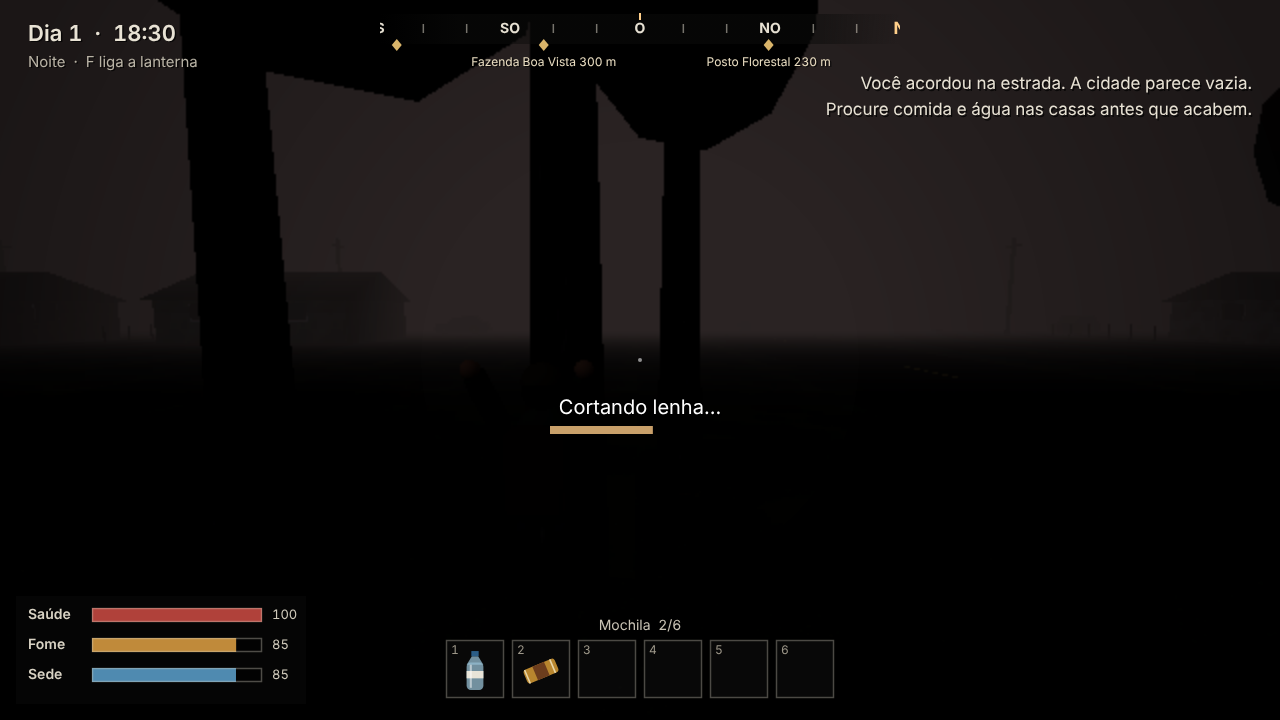
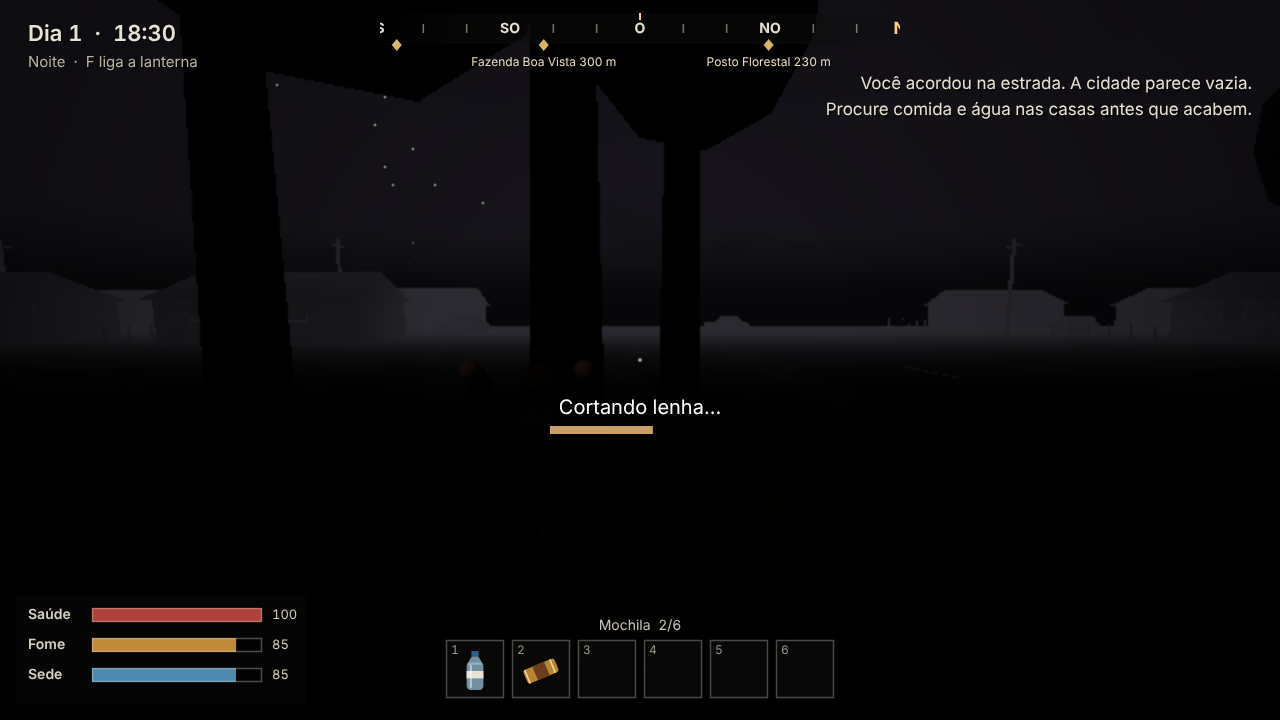
feat: gráfico mais realista
Céu com gradiente, sol, lua, estrelas e nuvens que se movem e mudam com
o clima; luz e reflexos vindos do céu (mapa de ambiente); sombras suaves
e oclusão de ambiente no computador; grama 3D que balança com o vento;
texturas com relevo; água do lago com ondulação e reflexo. No celular,
sem grama, sem oclusão e sem relevo, para continuar leve.

Story: SPIKE sobrevivencia-spike-2026-11-20

Claude-Session: https://claude.ai/code/session_013o8aek17KGRmKMrjDa2EVT

Changed region(s): [[0.4688, 0.3361, 0.9375, 0.4583], [0.2188, 0.3361, 0.4375, 0.4583], [0.0625, 0.3667, 0.1562, 0.4278]]

diff --git a/prototypes/sobrevivencia-spike-2026-11-20/index.html b/prototypes/sobrevivencia-spike-2026-11-20/index.html
@@ -50,6 +50,7 @@ const CONTROLS = TOUCH ? [
 const clock = window.GAME_CLOCK || { now: () => performance.now() / 1000 };
 const CHEAP = params.get('render') === 'cheap';
 const LIGHT = TOUCH && !CHEAP; // lighter render on a phone: no shadows, lower resolution
+const HQ = !LIGHT && !CHEAP && params.get('hq') !== '0'; // computer: soft shadows, ambient occlusion, grass
 let seed;
 function rng() { // mulberry32; every gameplay random call reads this, never Math.random
   seed = (seed + 0x6D2B79F5) | 0;
@@ -76,7 +77,7 @@ const wcanvas = document.getElementById('world');
 const renderer = new THREE.WebGLRenderer({ canvas: wcanvas, antialias: !CHEAP && !LIGHT, powerPreference: 'high-performance' });
 renderer.setPixelRatio(CHEAP ? 0.5 : LIGHT ? Math.min(devicePixelRatio || 1, 1) * tune.mobile_resolution : Math.min(devicePixelRatio || 1, 2));
 renderer.shadowMap.enabled = !CHEAP && !LIGHT;
-renderer.shadowMap.type = THREE.PCFShadowMap;
+renderer.shadowMap.type = HQ ? THREE.VSMShadowMap : THREE.PCFShadowMap;
 renderer.toneMapping = THREE.ACESFilmicToneMapping;
 renderer.outputColorSpace = THREE.SRGBColorSpace;
 function fit() {
@@ -93,6 +94,7 @@ function fit() {
   canvas.style.width = cw + 'px'; canvas.style.height = ch + 'px';
   canvas.style.left = left; canvas.style.top = top;
   renderer.setSize(cw, ch, true);
+  if (fit.composer) fit.composer.setSize(cw, ch);
   wcanvas.style.left = left; wcanvas.style.top = top;
   ctx.setTransform(r, 0, 0, r, 0, 0);
 }
@@ -366,6 +368,7 @@ sun.castShadow = !CHEAP && !LIGHT;
 sun.shadow.mapSize.set(2048, 2048);
 Object.assign(sun.shadow.camera, { left: -45, right: 45, top: 45, bottom: -45, near: 1, far: 160 });
 sun.shadow.bias = -0.0004; sun.shadow.normalBias = 0.04;
+if (HQ) { sun.shadow.radius = 5; sun.shadow.blurSamples = 12; sun.shadow.bias = -0.0008; }
 const flash = new THREE.SpotLight(0xfff1d6, 0, 40, 0.55, 0.55, 1.2);
 flash.position.set(0.15, -0.15, 0); camera.add(flash); flash.target.position.set(0, -0.22, -1); camera.add(flash.target);
 
@@ -419,7 +422,7 @@ function siding(r, gg, b, k) {
     const gr = g.createLinearGradient(0, s * 0.6, 0, s); gr.addColorStop(0, 'rgba(40,35,25,0)'); gr.addColorStop(1, 'rgba(40,35,25,0.25)'); g.fillStyle = gr; g.fillRect(0, 0, s, s);
   });
 }
-const M = (map, extra = {}) => new THREE.MeshStandardMaterial(Object.assign({ map, roughness: 0.92, metalness: 0 }, extra));
+const M = (map, extra = {}) => new THREE.MeshStandardMaterial(Object.assign({ map, roughness: 0.92, metalness: 0 }, LIGHT ? {} : { bumpMap: map, bumpScale: 2.2 }, extra)); // the texture doubles as a bump map: grooves, cracks and grain catch the light
 const MAT = {
   grass: M(T.grass), asphalt: M(T.asphalt), concrete: M(T.concrete), floor: M(T.floor), roof: M(T.roof),
   plaster: M(T.plaster), wood: M(T.wood), planks: M(T.planks), bark: M(T.bark),
@@ -552,6 +555,7 @@ function windowAt(x, y, z, alongX) {
 
 // A house beside the road. side +1: the door faces +x; -1: it faces -x.
 function house(cx, cz, w, d, side, mi, opts = {}) {
+  footprints.push([cx - w / 2 - 0.5, cx + w / 2 + 0.5, cz - d / 2 - 0.5, cz + d / 2 + 0.5]);
   const Hh = 2.8, t = 0.2, mat = SIDING[mi % SIDING.length];
   const doorX = cx + side * w / 2, backX = cx - side * w / 2, dw = 1.3, seg = (d - dw) / 2;
   const locked = !opts.open && wrng() < tune.locked_chance;
@@ -777,13 +781,16 @@ function buildWorld() {
     mesh(boxGeo(1.6, 0.12, 0.12, 1), MAT.pole, 6.2, 7.4, z);
     boxes.push({ x0: 6.05, x1: 6.35, z0: z - 0.15, z1: z + 0.15, y0: 0, y1: 8 });
   }
+  roadRects.push([-7, 7, -172, 140], [-13, 13, -159, -141], [222, 246, -88, -68]); // town street and sidewalks, market, station forecourt
   buildRoads(); buildVillage(); buildFarm(); buildCabin(); buildLake(); buildSouth();
   buildForest();
 }
 
 // ---- The wider map ----------------------------------------------------------------------------
 // Roads are flat boxes; asphalt roads get a dashed centre line, dirt tracks do not.
+const roadRects = [], footprints = [];
 function road(x0, x1, z0, z1, mat = MAT.asphalt) {
+  roadRects.push([x0 - 1.5, x1 + 1.5, z0 - 1.5, z1 + 1.5]);
   const cx = (x0 + x1) / 2, cz = (z0 + z1) / 2, sx = x1 - x0, sz = z1 - z0;
   box(cx, -0.015, cz, sx, 0.04, sz, mat, false, 6);
   if (mat !== MAT.asphalt) return;
@@ -804,11 +811,21 @@ function roadSign(x, z, rot, lines) {
   board.rotation.z = (vr(x * z) - 0.5) * 0.08; solids.push(board);
   boxes.push({ x0: x - 0.15, x1: x + 0.15, z0: z - 0.15, z1: z + 0.15, y0: 0, y1: 3 });
 }
+// ripples: a tiling normal map drawn from layered waves; it drifts in draw()
+const WATER_N = (() => {
+  const S = 256, c = document.createElement('canvas'); c.width = c.height = S; const g = c.getContext('2d'), im = g.createImageData(S, S);
+  const hgt = (x, y) => Math.sin((x * 3 + y) / S * Math.PI * 2 * 3) * 0.5 + Math.sin((x - y * 2) / S * Math.PI * 2 * 5) * 0.3 + Math.sin((x * 2 + y * 5) / S * Math.PI * 2 * 2) * 0.4;
+  for (let y = 0; y < S; y++) for (let x = 0; x < S; x++) {
+    const dx = hgt(x + 1, y) - hgt(x - 1, y), dy = hgt(x, y + 1) - hgt(x, y - 1), i = (y * S + x) * 4;
+    im.data[i] = 128 - dx * 90; im.data[i + 1] = 128 - dy * 90; im.data[i + 2] = 255; im.data[i + 3] = 255;
+  }
+  g.putImageData(im, 0, 0); const t = new THREE.CanvasTexture(c); t.wrapS = t.wrapT = THREE.RepeatWrapping; t.repeat.set(6, 6); return t;
+})();
 const MAT2 = {
   dirt: M(tex(256, (g, S) => { g.fillStyle = '#6b5a44'; g.fillRect(0, 0, S, S); grain(g, S, 7000, 90, 0.35, 2); blotches(g, S, 14, 91, 'rgba(40,32,22,0.4)', 50); })),
   barn: M(siding(118, 52, 40, 95)),
   hay: M(tex(128, (g, S) => { g.fillStyle = '#b39a5c'; g.fillRect(0, 0, S, S); g.strokeStyle = 'rgba(90,70,30,0.6)'; for (let i = 0; i < 60; i++) { g.beginPath(); const y = vr(i * 3) * S; g.moveTo(0, y); g.lineTo(S, y + (vr(i) - 0.5) * 20); g.stroke(); } })),
-  water: new THREE.MeshStandardMaterial({ color: 0x4a6068, roughness: 0.12, metalness: 0.05 }),
+  water: new THREE.MeshStandardMaterial({ color: 0x2c4048, roughness: 0.06, metalness: 0.1, normalMap: WATER_N, normalScale: new THREE.Vector2(0.35, 0.35), envMapIntensity: 1.4 }),
   mud: M(tex(256, (g, S) => { g.fillStyle = '#4c4636'; g.fillRect(0, 0, S, S); grain(g, S, 5000, 93, 0.3, 2); })),
   crop: new THREE.MeshStandardMaterial({ color: 0x8a7a48, roughness: 1, flatShading: true }),
   red: new THREE.MeshStandardMaterial({ color: 0x8a3226, roughness: 0.6, metalness: 0.2 }),
@@ -1637,20 +1654,130 @@ function useSlot(i) {
   removeItems(id, 1); ITEMS[id].use(); state.eaten++;
   say('Usou: ' + ITEMS[id].name); events.push({ use: id });
 }
+// ---- Sky: gradient, sun, moving clouds and stars, matched to the fog at the horizon -------------
+const skyMat = new THREE.ShaderMaterial({
+  side: THREE.BackSide, depthWrite: false, fog: false, toneMapped: true,
+  uniforms: { uTop: { value: new THREE.Color() }, uHorizon: { value: new THREE.Color() }, uFog: { value: new THREE.Color() }, uSunDir: { value: new THREE.Vector3(0, 1, 0) },
+    uSunCol: { value: new THREE.Color() }, uCloudCol: { value: new THREE.Color() }, uMoonDir: { value: new THREE.Vector3(0, 1, 0) }, uTime: { value: 0 }, uCover: { value: 0.5 }, uNight: { value: 0 } },
+  vertexShader: `varying vec3 vDir; void main() { vDir = position; vec4 p = projectionMatrix * modelViewMatrix * vec4(position, 1.0); gl_Position = p.xyww; }`,
+  fragmentShader: `
+    uniform vec3 uTop, uHorizon, uFog, uSunDir, uSunCol, uCloudCol, uMoonDir; uniform float uTime, uCover, uNight; varying vec3 vDir;
+    float hash(vec2 p) { return fract(sin(dot(p, vec2(127.1, 311.7))) * 43758.5453); }
+    float noise(vec2 p) { vec2 i = floor(p), f = fract(p); f = f * f * (3.0 - 2.0 * f);
+      return mix(mix(hash(i), hash(i + vec2(1.0, 0.0)), f.x), mix(hash(i + vec2(0.0, 1.0)), hash(i + vec2(1.0, 1.0)), f.x), f.y); }
+    float fbm(vec2 p) { float v = 0.0, a = 0.5; for (int i = 0; i < 5; i++) { v += a * noise(p); p = p * 2.03 + 1.7; a *= 0.5; } return v; }
+    void main() {
+      vec3 d = normalize(vDir); float h = max(d.y, 0.0);
+      vec3 col = mix(uHorizon, uTop, pow(h, 0.6));
+      float sd = max(dot(d, normalize(uSunDir)), 0.0);
+      col += uSunCol * (pow(sd, 900.0) * 6.0 + pow(sd, 10.0) * 0.22);
+      float md = max(dot(d, normalize(uMoonDir)), 0.0);
+      col += vec3(0.85, 0.88, 1.0) * uNight * (smoothstep(0.99955, 0.9997, md) * 1.6 + pow(md, 40.0) * 0.08);
+      if (uNight > 0.01 && d.y > 0.0) { vec2 sp = floor(d.xz / (d.y + 0.15) * 160.0); col += vec3(step(0.9975, hash(sp)) * uNight * 1.4 * smoothstep(0.05, 0.4, d.y)); }
+      if (d.y > 0.0) {
+        vec2 uv = d.xz / (d.y + 0.08) * 0.45 + vec2(uTime * 0.006, uTime * 0.0025);
+        float n = fbm(uv * 1.4), c = smoothstep(1.0 - uCover, 1.15 - uCover * 0.6, n) * smoothstep(0.0, 0.2, d.y);
+        vec3 cc = uCloudCol * (0.72 + 0.4 * fbm(uv * 3.1 + 4.0)) + uSunCol * pow(sd, 6.0) * 0.35;
+        col = mix(col, cc, c * 0.96);
+      }
+      gl_FragColor = vec4(col, 1.0);
+      #include <tonemapping_fragment>
+      #include <colorspace_fragment>
+      gl_FragColor.rgb = mix(uFog, gl_FragColor.rgb, smoothstep(0.0, 0.16, d.y)); // melt into the fog like the ground does
+    }`,
+});
+const skyDome = new THREE.Mesh(new THREE.SphereGeometry(1, 32, 16), skyMat); skyDome.renderOrder = -1; skyDome.frustumCulled = false; world.add(skyDome);
+// the sky lights and reflects on everything: an environment map remade every half game-hour
+const pmrem = new THREE.PMREMGenerator(renderer), envScene = new THREE.Scene();
+const envDome = new THREE.Mesh(new THREE.SphereGeometry(10, 32, 16), skyMat); envScene.add(envDome);
+let envRT = null, envHour = -99;
+function updateEnv(h) {
+  if (CHEAP || Math.abs(h - envHour) < 0.5) return;
+  envHour = h; const old = envRT; envRT = pmrem.fromScene(envScene, 0.02, 0.1, 100); world.environment = envRT.texture; if (old) old.dispose();
+}
+
+// ---- Grass: blades around the player that sway in the wind (computer only) ----------------------
+const grass = (() => {
+  if (LIGHT || CHEAP) return null;
+  const R = 26, SP = 0.32, N = Math.floor((R * 2 / SP) ** 2 * 0.785);
+  const geo = new THREE.PlaneGeometry(0.07, 0.55, 1, 3); geo.translate(0, 0.275, 0);
+  const pos = geo.attributes.position; for (let i = 0; i < pos.count; i++) { const y = pos.getY(i); pos.setX(i, pos.getX(i) * (1 - y / 0.6)); }
+  const mat = new THREE.MeshStandardMaterial({ color: 0xffffff, roughness: 1, side: THREE.DoubleSide });
+  const uTime = { value: 0 };
+  mat.onBeforeCompile = sh => {
+    sh.uniforms.uTime = uTime;
+    sh.vertexShader = 'uniform float uTime;\n' + sh.vertexShader.replace('#include <begin_vertex>', `#include <begin_vertex>
+      vec4 ip = instanceMatrix[3]; float sway = sin(uTime * 1.8 + ip.x * 0.31 + ip.z * 0.23) + 0.5 * sin(uTime * 3.1 + ip.x * 0.9);
+      transformed.x += sway * 0.09 * position.y * position.y * 4.0; transformed.z += sway * 0.05 * position.y * position.y * 4.0;`);
+  };
+  const im = new THREE.InstancedMesh(geo, mat, N); im.receiveShadow = true; im.frustumCulled = false; world.add(im);
+  return { im, uTime, R, SP, N, cx: 1e9, cz: 1e9 };
+})();
+function placeGrass() {
+  const s = state, g = grass; if (!g) return;
+  if (Math.hypot(s.x - g.cx, s.z - g.cz) < 7) return;
+  g.cx = Math.round(s.x / g.SP) * g.SP; g.cz = Math.round(s.z / g.SP) * g.SP;
+  const near = r => r[1] > g.cx - g.R && r[0] < g.cx + g.R && r[3] > g.cz - g.R && r[2] < g.cz + g.R;
+  const rects = roadRects.filter(near).concat(footprints.filter(near));
+  const pools = lakes.filter(l => Math.hypot(l.x - g.cx, l.z - g.cz) < g.R + l.r + 6);
+  const m4 = new THREE.Matrix4(), q = new THREE.Quaternion(), e = new THREE.Euler(), v = new THREE.Vector3(), sc = new THREE.Vector3(), col = new THREE.Color();
+  let n = 0;
+  for (let ix = -g.R; ix <= g.R && n < g.N; ix += g.SP) for (let iz = -g.R; iz <= g.R && n < g.N; iz += g.SP) {
+    if (ix * ix + iz * iz > g.R * g.R) continue;
+    const wx = g.cx + ix, wz = g.cz + iz, hh = vr(wx * 13.1 + wz * 7.7);
+    const x = wx + (hh - 0.5) * g.SP, z = wz + (vr(wx * 3.3 - wz * 5.9) - 0.5) * g.SP;
+    if (rects.some(r => x > r[0] && x < r[1] && z > r[2] && z < r[3]) || pools.some(l => Math.hypot(x - l.x, z - l.z) < l.r + 4)) continue;
+    e.set((hh - 0.5) * 0.4, hh * 6.28, 0); q.setFromEuler(e); const k = 0.45 + hh * 0.65;
+    m4.compose(v.set(x, 0, z), q, sc.set(1, k, 1)); g.im.setMatrixAt(n, m4);
+    col.setHSL(0.16 + vr(x * 1.7 + z) * 0.08, 0.28 + hh * 0.1, 0.2 + vr(z * 2.3 - x) * 0.1); g.im.setColorAt(n, col);
+    n++;
+  }
+  g.im.count = n; g.im.instanceMatrix.needsUpdate = true; if (g.im.instanceColor) g.im.instanceColor.needsUpdate = true;
+}
+
+// ---- Post: ambient occlusion darkens corners and contact (computer only) ------------------------
+const composer = (() => {
+  if (!HQ || !THREE.EffectComposer || !THREE.GTAOPass) return null;
+  try {
+    const c = new THREE.EffectComposer(renderer);
+    c.addPass(new THREE.RenderPass(world, camera));
+    const ao = new THREE.GTAOPass(world, camera, W, H); ao.updateGtaoMaterial({ radius: 0.6, distanceExponent: 1.5, thickness: 1, scale: 1.2, samples: 12 }); ao.blendIntensity = 0.85;
+    c.addPass(ao); c.addPass(new THREE.OutputPass());
+    fit.composer = c; fit(); return c;
+  } catch (e) { return null; }
+})();
+function renderScene(day) {
+  skyDome.position.copy(camera.position); skyDome.scale.setScalar(camera.far * 0.9);
+  if (grass) { placeGrass(); grass.uTime.value = clock.now(); }
+  WATER_N.offset.set(clock.now() * 0.01, clock.now() * 0.006);
+  if (composer) composer.render(); else renderer.render(world, camera);
+}
+
 function lighting(h) {
   const a = (h - 6) / 12 * Math.PI, el = Math.sin(a);
   const sm = (e0, e1, x) => { const t = Math.max(0, Math.min(1, (x - e0) / (e1 - e0))); return t * t * (3 - 2 * t); };
   const day = sm(-0.18, 0.35, el), dusk = Math.exp(-((el / 0.14) ** 2)) * 0.7;
-  const sky = new THREE.Color(0x090c12).lerp(new THREE.Color(0x9ba3a8), day).lerp(new THREE.Color(0x8c6f60), dusk * day * 1.4 + dusk * 0.3);
+  const sky = new THREE.Color(0x111a28).lerp(new THREE.Color(0x9ba3a8), day).lerp(new THREE.Color(0x8c6f60), dusk * day * 1.4 + dusk * 0.3);
   renderer.setClearColor(sky); world.fog.color.copy(sky);
   world.fog.near = 8; world.fog.far = tune.fog_night_far + (tune.fog_day_far - tune.fog_night_far) * day;
   if (Math.abs(camera.far - (world.fog.far + 15)) > 2) { camera.far = world.fog.far + 15; camera.updateProjectionMatrix(); }
   const dir = new THREE.Vector3(Math.cos(a) * 0.8, Math.abs(el) + 0.05, 0.45).normalize();
   if (el > 0) { sun.intensity = 2.3 * sm(0, 0.3, el); sun.color.setRGB(1, 0.86 + 0.12 * day, 0.75 + 0.2 * day); }
-  else { sun.intensity = 0.22 * sm(0, 0.3, -el); sun.color.setRGB(0.55, 0.65, 0.9); dir.x = -dir.x; }
+  else { sun.intensity = 0.45 * sm(0, 0.3, -el); sun.color.setRGB(0.55, 0.65, 0.95); dir.x = -dir.x; } // moonlight
   const at = camera.position;
   sun.position.set(at.x + dir.x * 70, dir.y * 70, at.z + dir.z * 70); sun.target.position.set(at.x, 0, at.z);
-  hemi.intensity = 0.16 + 0.8 * day; hemi.color.setRGB(0.6 + 0.17 * day, 0.65 + 0.14 * day, 0.8);
+  // weather: cloud cover drifts over the days and dims the sun
+  const days = (state ? state.hour : h) / 24, cover = Math.max(0.15, Math.min(0.9, 0.5 + 0.28 * Math.sin(days * 2.3 + 1) + 0.15 * Math.sin(days * 5.1)));
+  sun.intensity *= 1 - cover * 0.55;
+  const top = sky.clone().multiplyScalar(0.82).lerp(new THREE.Color(0x6d8299), 0.35 * day * (1 - cover));
+  skyMat.uniforms.uTop.value.copy(top); skyMat.uniforms.uHorizon.value.copy(sky); skyMat.uniforms.uFog.value.copy(sky);
+  skyMat.uniforms.uSunDir.value.copy(el > 0 ? dir : dir.clone().negate()); skyMat.uniforms.uSunCol.value.setRGB(1, 0.85 + 0.1 * day, 0.65 + 0.25 * day).multiplyScalar(sm(-0.1, 0.2, el) * (1 - cover * 0.6));
+  skyMat.uniforms.uCloudCol.value.copy(sky).lerp(new THREE.Color(0xd8d8d4), 0.55 * day).multiplyScalar(0.55 + 0.5 * day);
+  skyMat.uniforms.uMoonDir.value.copy(el > 0 ? dir.clone().negate() : dir);
+  skyMat.uniforms.uCover.value = cover; skyMat.uniforms.uNight.value = 1 - sm(-0.25, 0.05, el); skyMat.uniforms.uTime.value = clock.now();
+  updateEnv(h);
+  world.environmentIntensity = CHEAP ? 0 : 0.15 + 0.55 * day;
+  hemi.intensity = (CHEAP ? 0.16 + 0.8 * day : 0.14 + 0.4 * day); hemi.color.setRGB(0.6 + 0.17 * day, 0.65 + 0.14 * day, 0.8);
   renderer.toneMappingExposure = 0.9 + 0.2 * day;
   if (audio && audio.wind) audio.wind.g.gain.value = 0.04 + 0.05 * (1 - day);
   return day;
@@ -1680,7 +1807,7 @@ const scenes = {
       if (pressed('Enter') || pressed('Space')) { reset(); scene = 'play'; }
     },
     draw() {
-      placeCamera(); lighting(17.6); renderer.render(world, camera);
+      placeCamera(); renderScene(lighting(17.6));
       ctx.clearRect(0, 0, W, H);
       const g = ctx.createLinearGradient(0, 0, 0, H); g.addColorStop(0, 'rgba(0,0,0,0.55)'); g.addColorStop(0.5, 'rgba(0,0,0,0.15)'); g.addColorStop(1, 'rgba(0,0,0,0.8)');
       ctx.fillStyle = g; ctx.fillRect(0, 0, W, H);
@@ -1819,7 +1946,7 @@ const scenes = {
       for (const pr of props) if (pr.body.sleepState !== CANNON.Body.SLEEPING || pr.g.userData.synced !== 1) { syncProp(pr); pr.g.userData.synced = pr.body.sleepState === CANNON.Body.SLEEPING ? 1 : 0; }
       const night = day < 0.3;
       for (const c of cars) { syncCar(c); c.lamp.emissive.setHex(night && state.driving === c ? 0xfff0c0 : 0x000000); }
-      renderer.render(world, camera);
+      renderScene(day);
       drawHud(day);
     },
   },
@@ -1834,7 +1961,7 @@ const scenes = {
   over: {
     update() { if (pressed('KeyR') || pressed('Enter')) { runs++; reset(); scene = 'play'; } },
     draw() {
-      placeCamera(1); lighting(state.hour % 24); renderer.render(world, camera);
+      placeCamera(1); renderScene(lighting(state.hour % 24));
       ctx.clearRect(0, 0, W, H); ctx.fillStyle = 'rgba(40,0,0,0.6)'; ctx.fillRect(0, 0, W, H);
       shadowText('Você morreu', W / 2, H / 2 - 80, 60, '#e8d8d0', 'center', '300');
       shadowText(state.gained, W / 2, H / 2 - 10, 28, '#fff');
